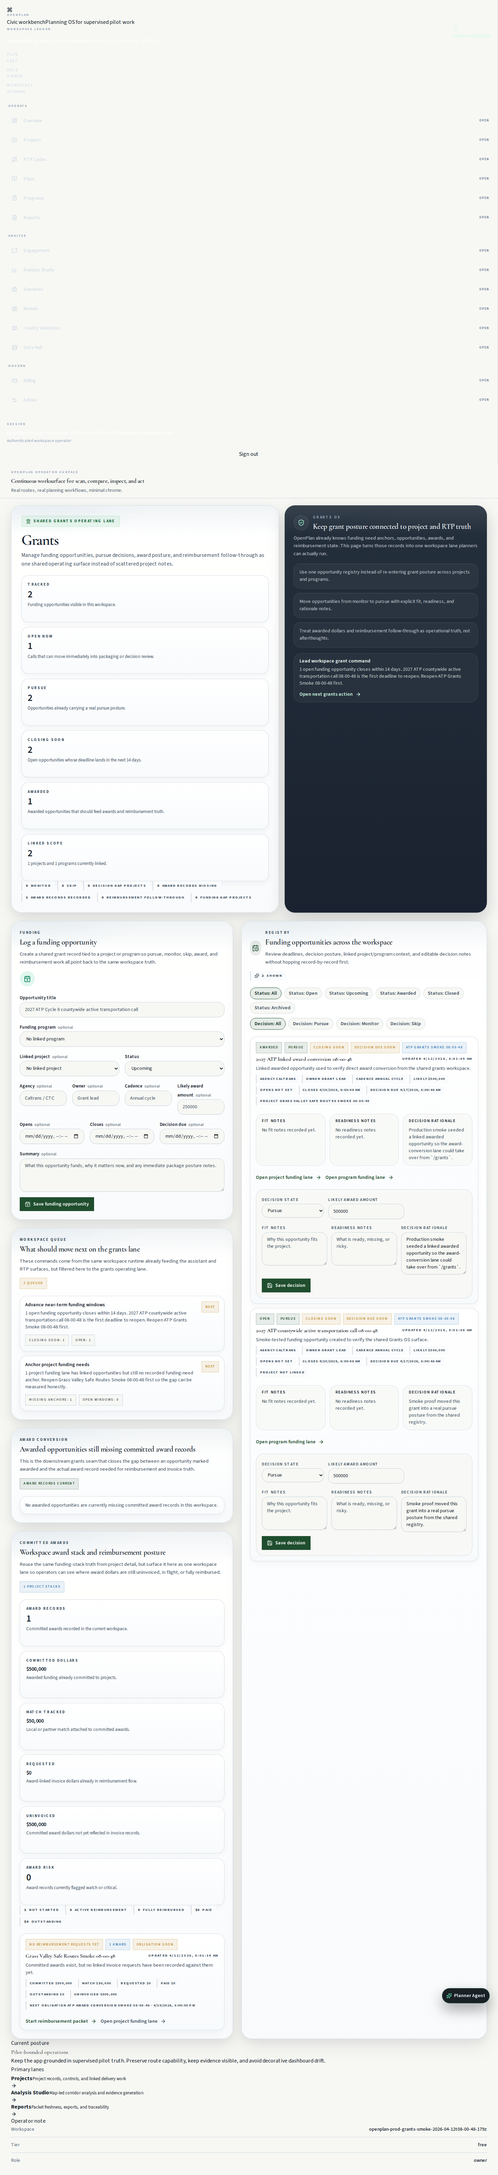
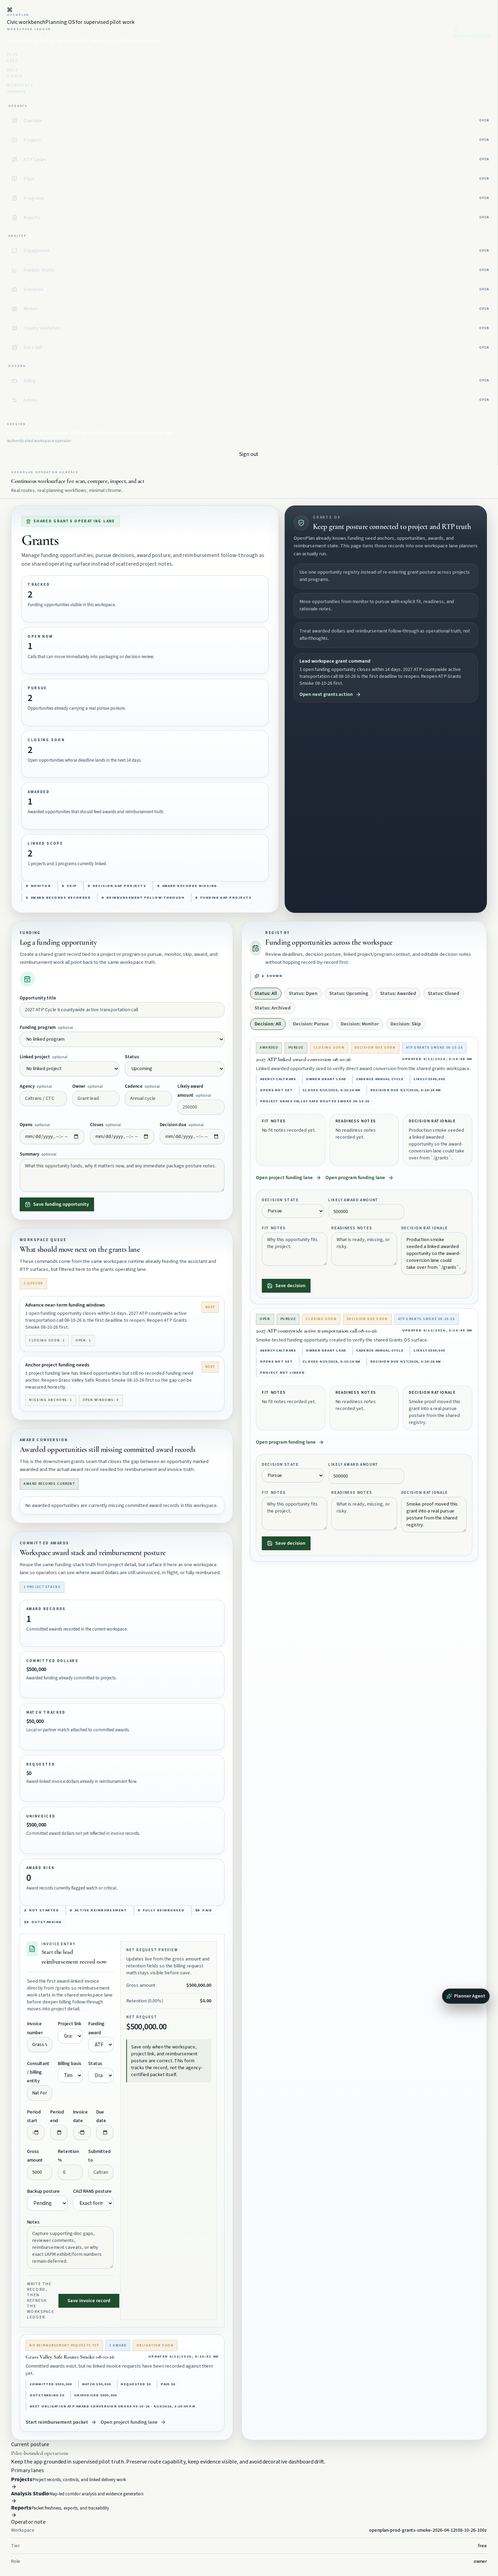
test: prove direct grants reimbursement start

diff --git a/qa-harness/openplan-prod-grants-registry-smoke.js b/qa-harness/openplan-prod-grants-registry-smoke.js
@@ -266,14 +266,23 @@ async function main() {
     notes.push('Created the lead funding award directly from `/grants` and cleared the award-conversion pressure for the smoke workspace.');
 
     const awardStackSection = page.locator('article').filter({ has: page.getByRole('heading', { name: /Workspace award stack and reimbursement posture/i }) }).first();
-    await awardStackSection.getByText(projectName, { exact: false }).waitFor({ timeout: 30000 });
+    await awardStackSection.getByRole('heading', { name: projectName, exact: false }).waitFor({ timeout: 30000 });
     await awardStackSection.getByText(/No reimbursement requests yet/i).waitFor({ timeout: 30000 });
     notes.push('The workspace award stack surfaced the linked project with reimbursement posture immediately after the award was recorded.');
 
     await screenshot('prod-grants-registry-01-registry');
     await screenshot('prod-grants-registry-02-award-conversion');
 
-    const reimbursementLink = awardStackSection.getByRole('link', { name: /Start reimbursement packet/i }).first();
+    const reimbursementComposer = page.locator('article').filter({ has: page.getByRole('heading', { name: /Start the lead reimbursement record now/i }) }).first();
+    await reimbursementComposer.waitFor({ timeout: 30000 });
+    await reimbursementComposer.getByRole('button', { name: /save invoice record/i }).click();
+    await reimbursementComposer.getByText(/Invoice record saved\./i).waitFor({ timeout: 30000 });
+    await awardStackSection.getByText(/Invoice drafting started/i).waitFor({ timeout: 30000 });
+    notes.push('Created the first award-linked reimbursement invoice directly from `/grants` and advanced the stack into drafting posture.');
+
+    await screenshot('prod-grants-registry-03-reimbursement-creation');
+
+    const reimbursementLink = awardStackSection.getByRole('link', { name: /Advance draft reimbursement/i }).first();
     await reimbursementLink.waitFor({ timeout: 30000 });
     await Promise.all([
       page.waitForURL(new RegExp(`/projects/${ids.projectId}#project-invoices$`, 'i'), { timeout: 30000 }),
@@ -281,9 +290,9 @@ async function main() {
     ]);
     await page.waitForLoadState('networkidle');
     await page.getByRole('heading', { name: /Project-linked billing register/i }).waitFor({ timeout: 30000 });
-    notes.push('The grants reimbursement action landed directly on the project billing register anchor.');
+    notes.push('The grants reimbursement action landed directly on the project billing register anchor after direct invoice creation.');
 
-    await screenshot('prod-grants-registry-03-project-billing-register');
+    await screenshot('prod-grants-registry-04-project-billing-register');
 
     await page.goto(`${productionBaseUrl}/grants`, { waitUntil: 'networkidle' });
     await page.getByRole('heading', { name: /^grants$/i }).waitFor({ timeout: 30000 });
@@ -298,7 +307,7 @@ async function main() {
     await page.getByRole('heading', { name: /Linked funding opportunities/i }).waitFor({ timeout: 30000 });
     notes.push('The grants registry linked back into the canonical program funding lane.');
 
-    await screenshot('prod-grants-registry-04-program-detail');
+    await screenshot('prod-grants-registry-05-program-detail');
 
     const reportPath = path.join(repoRoot, `docs/ops/${datePart}-openplan-production-grants-registry-smoke.md`);
     const lines = [
@@ -320,7 +329,7 @@ async function main() {
       ...artifacts.map((artifact) => `- ${artifact}`),
       '',
       '## Verdict',
-      '- PASS: Production rendered smoke confirms the shared `/grants` workspace surface can create a funding opportunity, surface grants queue pressure, promote an opportunity into awarded status, create the committed funding award from the award-conversion lane, surface the workspace award-stack reimbursement posture, and still link back into the canonical program funding lane.',
+      '- PASS: Production rendered smoke confirms the shared `/grants` workspace surface can create a funding opportunity, surface grants queue pressure, promote an opportunity into awarded status, create the committed funding award from the award-conversion lane, start the first reimbursement invoice directly from the shared grants surface, land on the exact project billing register, and still link back into the canonical program funding lane.',
       '',
     ];
     fs.writeFileSync(reportPath, lines.join('\n'));

diff --git a/docs/ops/2026-04-12-openplan-production-grants-registry-smoke.md b/docs/ops/2026-04-12-openplan-production-grants-registry-smoke.md
@@ -1,35 +1,37 @@
 # OpenPlan Production Grants Registry Smoke — 2026-04-12
 
 - Base URL: https://openplan-natford.vercel.app
-- QA user email: openplan-prod-grants-smoke-2026-04-12T08-00-48-179Z@natfordplanning.com
+- QA user email: openplan-prod-grants-smoke-2026-04-12T08-10-26-100Z@natfordplanning.com
 - QA user id: unknown
-- Workspace id: 2a78d490-9470-4c64-bfa5-75be037fc373
-- Bootstrapped workspace id: 4426aa7f-7dd3-405b-a696-ccaeb55f5bee
-- Project id: c72af00a-1c2b-4fa2-b141-3b467568161f
-- Program id: 6a304b6a-966e-40e8-8fc1-d55db638266d
-- Opportunity id: 4cfbd99c-d867-49ba-b2d2-974b392fcf12
+- Workspace id: 43006643-31bd-4282-b314-e0f01485f8e6
+- Bootstrapped workspace id: d7790098-9c0f-4dea-aab9-f7108a2273b9
+- Project id: 7695f151-1b85-4103-bb0d-b2e403a3b7e1
+- Program id: 2370b057-e3dd-42f8-a805-7ee327f411cb
+- Opportunity id: 8b571542-afb0-4414-8658-c79d7f196902
 
 ## Pass/Fail Notes
-- PASS: Created QA auth user openplan-prod-grants-smoke-2026-04-12T08-00-48-179Z@natfordplanning.com.
+- PASS: Created QA auth user openplan-prod-grants-smoke-2026-04-12T08-10-26-100Z@natfordplanning.com.
 - PASS: Signed into production successfully.
-- PASS: Bootstrapped workspace OpenPlan Prod Grants Smoke 08-00-48.
-- PASS: Current workspace resolved to 2a78d490-9470-4c64-bfa5-75be037fc373 instead of the freshly bootstrapped workspace 4426aa7f-7dd3-405b-a696-ccaeb55f5bee; smoke data was aligned to the active workspace selection.
-- PASS: Seeded linked project Grass Valley Safe Routes Smoke 08-00-48 inside the smoke workspace.
-- PASS: Created production program ATP Grants Smoke 08-00-48.
+- PASS: Bootstrapped workspace OpenPlan Prod Grants Smoke 08-10-26.
+- PASS: Current workspace resolved to 43006643-31bd-4282-b314-e0f01485f8e6 instead of the freshly bootstrapped workspace d7790098-9c0f-4dea-aab9-f7108a2273b9; smoke data was aligned to the active workspace selection.
+- PASS: Seeded linked project Grass Valley Safe Routes Smoke 08-10-26 inside the smoke workspace.
+- PASS: Created production program ATP Grants Smoke 08-10-26.
 - PASS: Grants registry rendered its empty state before the first opportunity was created.
 - PASS: Created the first funding opportunity and confirmed the rendered grants surface picked it up with near-term queue pressure.
 - PASS: Updated the opportunity decision to pursue directly from the grants registry row controls.
 - PASS: Created a linked awarded opportunity so the shared award-conversion lane could take over.
 - PASS: Created the lead funding award directly from `/grants` and cleared the award-conversion pressure for the smoke workspace.
 - PASS: The workspace award stack surfaced the linked project with reimbursement posture immediately after the award was recorded.
-- PASS: The grants reimbursement action landed directly on the project billing register anchor.
+- PASS: Created the first award-linked reimbursement invoice directly from `/grants` and advanced the stack into drafting posture.
+- PASS: The grants reimbursement action landed directly on the project billing register anchor after direct invoice creation.
 - PASS: The grants registry linked back into the canonical program funding lane.
 
 ## Artifacts
 - 2026-04-12-prod-grants-registry-01-registry.png
 - 2026-04-12-prod-grants-registry-02-award-conversion.png
-- 2026-04-12-prod-grants-registry-03-project-billing-register.png
-- 2026-04-12-prod-grants-registry-04-program-detail.png
+- 2026-04-12-prod-grants-registry-03-reimbursement-creation.png
+- 2026-04-12-prod-grants-registry-04-project-billing-register.png
+- 2026-04-12-prod-grants-registry-05-program-detail.png
 
 ## Verdict
-- PASS: Production rendered smoke confirms the shared `/grants` workspace surface can create a funding opportunity, surface grants queue pressure, promote an opportunity into awarded status, create the committed funding award from the award-conversion lane, surface the workspace award-stack reimbursement posture, and still link back into the canonical program funding lane.
+- PASS: Production rendered smoke confirms the shared `/grants` workspace surface can create a funding opportunity, surface grants queue pressure, promote an opportunity into awarded status, create the committed funding award from the award-conversion lane, start the first reimbursement invoice directly from the shared grants surface, land on the exact project billing register, and still link back into the canonical program funding lane.

diff --git a/docs/ops/2026-04-12-openplan-production-qa-cleanup.md b/docs/ops/2026-04-12-openplan-production-qa-cleanup.md
@@ -1,6 +1,6 @@
 # OpenPlan Production QA Cleanup — 2026-04-12
 
-- Started: 2026-04-12T08:01:32.840Z
+- Started: 2026-04-12T08:11:12.869Z
 - Mode: apply
 - Env path: /home/narford/.openclaw/workspace/openplan/openplan/.env.local
 - Created-after filter: 2026-04-12
@@ -8,32 +8,34 @@
 
 ## Scope
 - Targeted QA/debug/proof/trace/canary production records created on or after 2026-04-12.
-- Targeted workspaces: 2
+- Targeted workspaces: 4
 - Targeted county runs: 0
-- Targeted auth users: 1
+- Targeted auth users: 2
 
 ## Stripe checkout sessions
 - No Stripe checkout sessions found for targeted workspaces.
 
 ## Delete plan
-- programs: planned=1
-- billing_events: planned=2
-- projects: planned=1
-- workspace_members: planned=2
-- workspaces: planned=2
+- programs: planned=2
+- billing_events: planned=4
+- projects: planned=2
+- workspace_members: planned=4
+- workspaces: planned=4
 
 ## Auth plan
-- openplan-prod-grants-smoke-2026-04-12t08-00-48-179z@natfordplanning.com
+- openplan-prod-grants-smoke-2026-04-12t08-10-26-100z@natfordplanning.com
+- openplan-prod-grants-smoke-2026-04-12t08-09-47-351z@natfordplanning.com
 
 ## Delete results
-- programs: status=200 ok=true planned=1 deleted=1
-- billing_events: status=200 ok=true planned=2 deleted=0
-- projects: status=200 ok=true planned=1 deleted=1
-- workspace_members: status=200 ok=true planned=2 deleted=2
-- workspaces: status=200 ok=true planned=2 deleted=2
+- programs: status=200 ok=true planned=2 deleted=2
+- billing_events: status=200 ok=true planned=4 deleted=0
+- projects: status=200 ok=true planned=2 deleted=2
+- workspace_members: status=200 ok=true planned=4 deleted=4
+- workspaces: status=200 ok=true planned=4 deleted=4
 
 ## Auth deletes
-- openplan-prod-grants-smoke-2026-04-12t08-00-48-179z@natfordplanning.com: status=200 ok=true
+- openplan-prod-grants-smoke-2026-04-12t08-10-26-100z@natfordplanning.com: status=200 ok=true
+- openplan-prod-grants-smoke-2026-04-12t08-09-47-351z@natfordplanning.com: status=200 ok=true
 
 ## Verification
 - Remaining matching workspaces: 0
